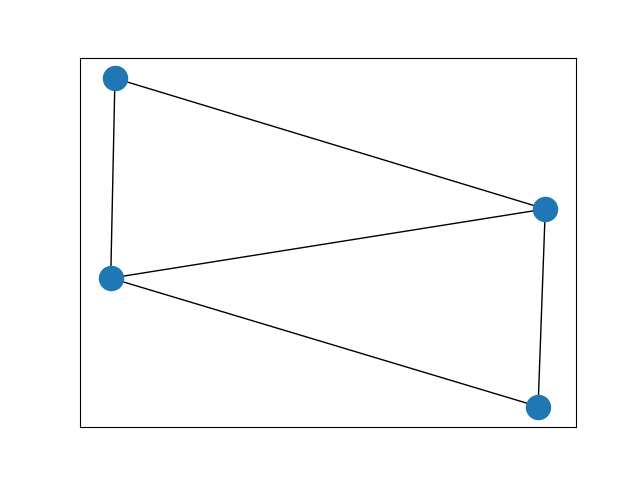
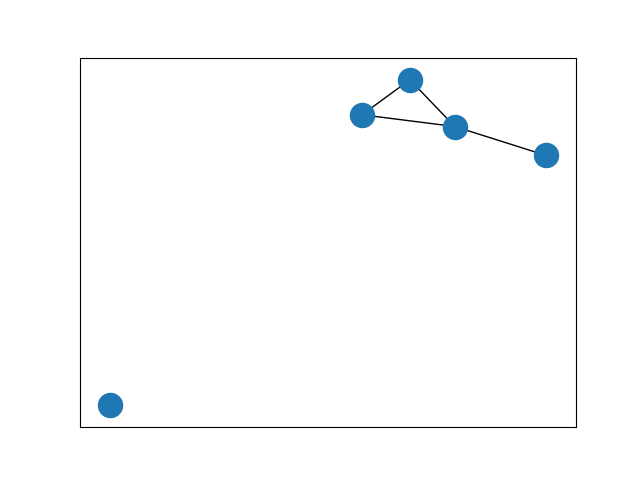
Implemented MapLib Into Netgrapgvis

diff --git a/Maps/PyFile/netgrapgvis.py b/Maps/PyFile/netgrapgvis.py
@@ -1,15 +1,14 @@
 import networkx as nx
 import matplotlib.pyplot as plt
+import maplib
 
+test = maplib.Map(file = "../Maps/map1.map")
 
 G=nx.Graph()
-G.add_nodes_from(["a", "b","c"])
+G.add_nodes_from(list(test.nodes.keys()))
 
-G.add_edge("a", "b", weigth=10)
-G.add_edge("a", "c", weigth=10)
-G.add_edge("b", "c", weigth=10)
-G.add_edge("b", "d", weigth=10)
-G.add_edge("c", "d", weigth=10)
+for vert in list(test.vertices.values()):
+    G.add_edge(vert.fromNode, vert.toNode, weigth=vert.weight)
 
 graph_pos=nx.spring_layout(G)
 

diff --git a/Maps/PyFile/maplib.py b/Maps/PyFile/maplib.py
@@ -45,8 +45,8 @@ class Map:
         vertice = Vertice(fromNode, toNode, weigth)
         self.vertices[str(name)] = vertice
 
-'''
-test = Map(file = "../Maps/map1.map")
-attrs = vars(test)
-print (', '.join("%s: %s" % item for item in attrs.items()))
-'''
+    def debugPrintInfo(self):
+        print(self.file)
+        print(self.nodes)
+        print(self.vertices)
+        print(self.description)
